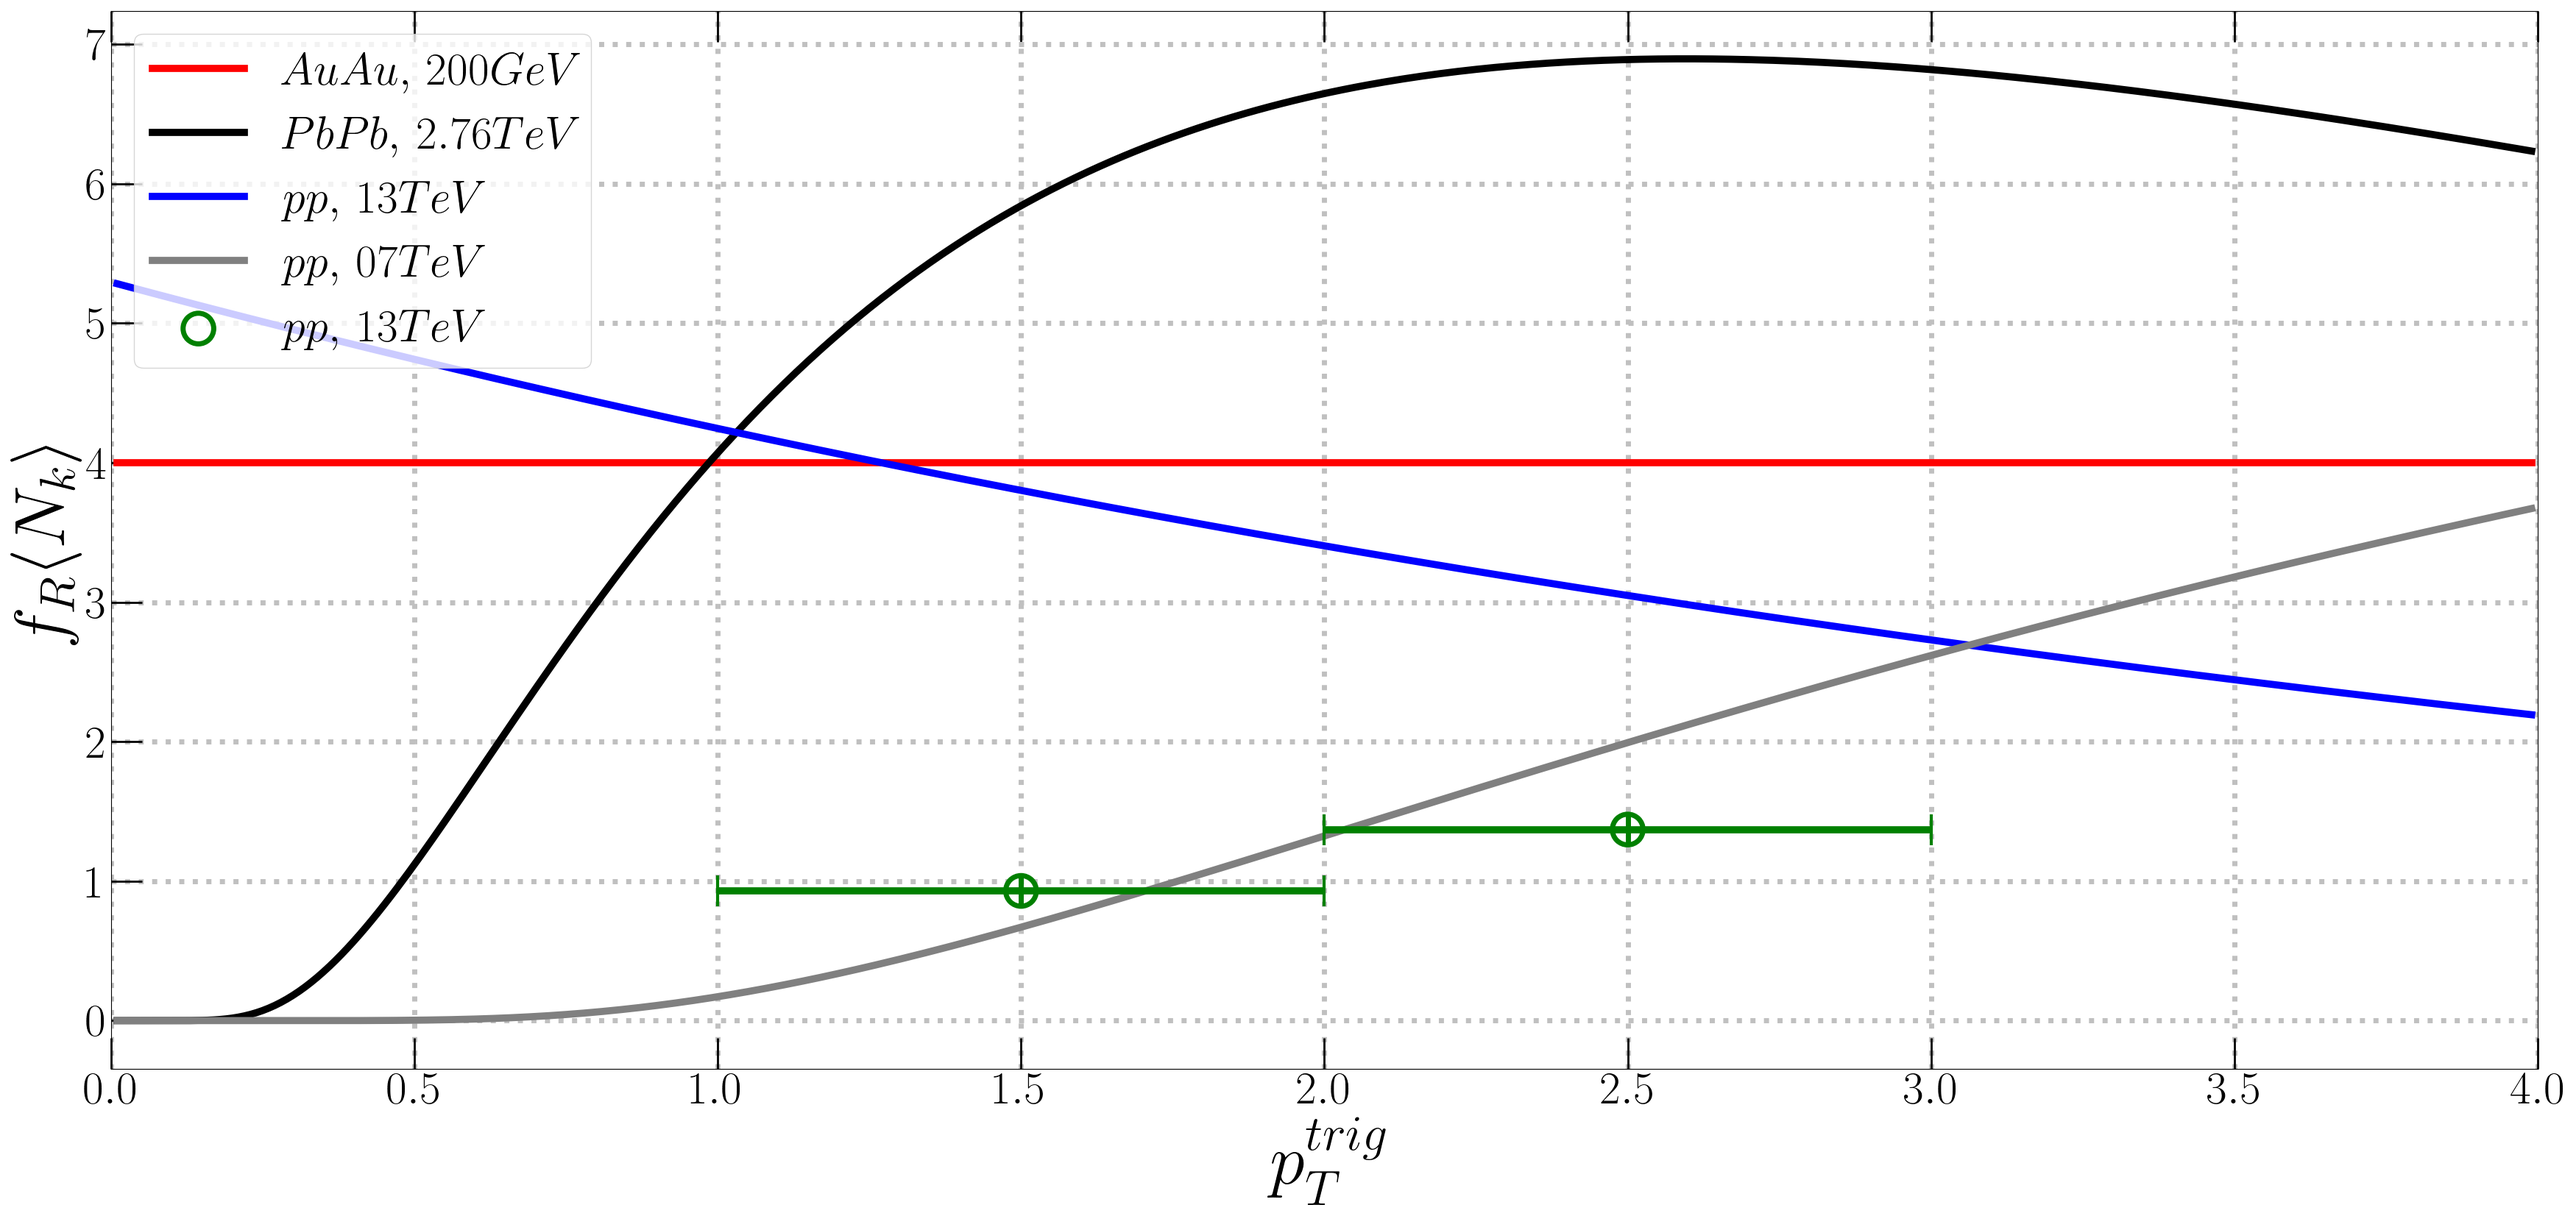
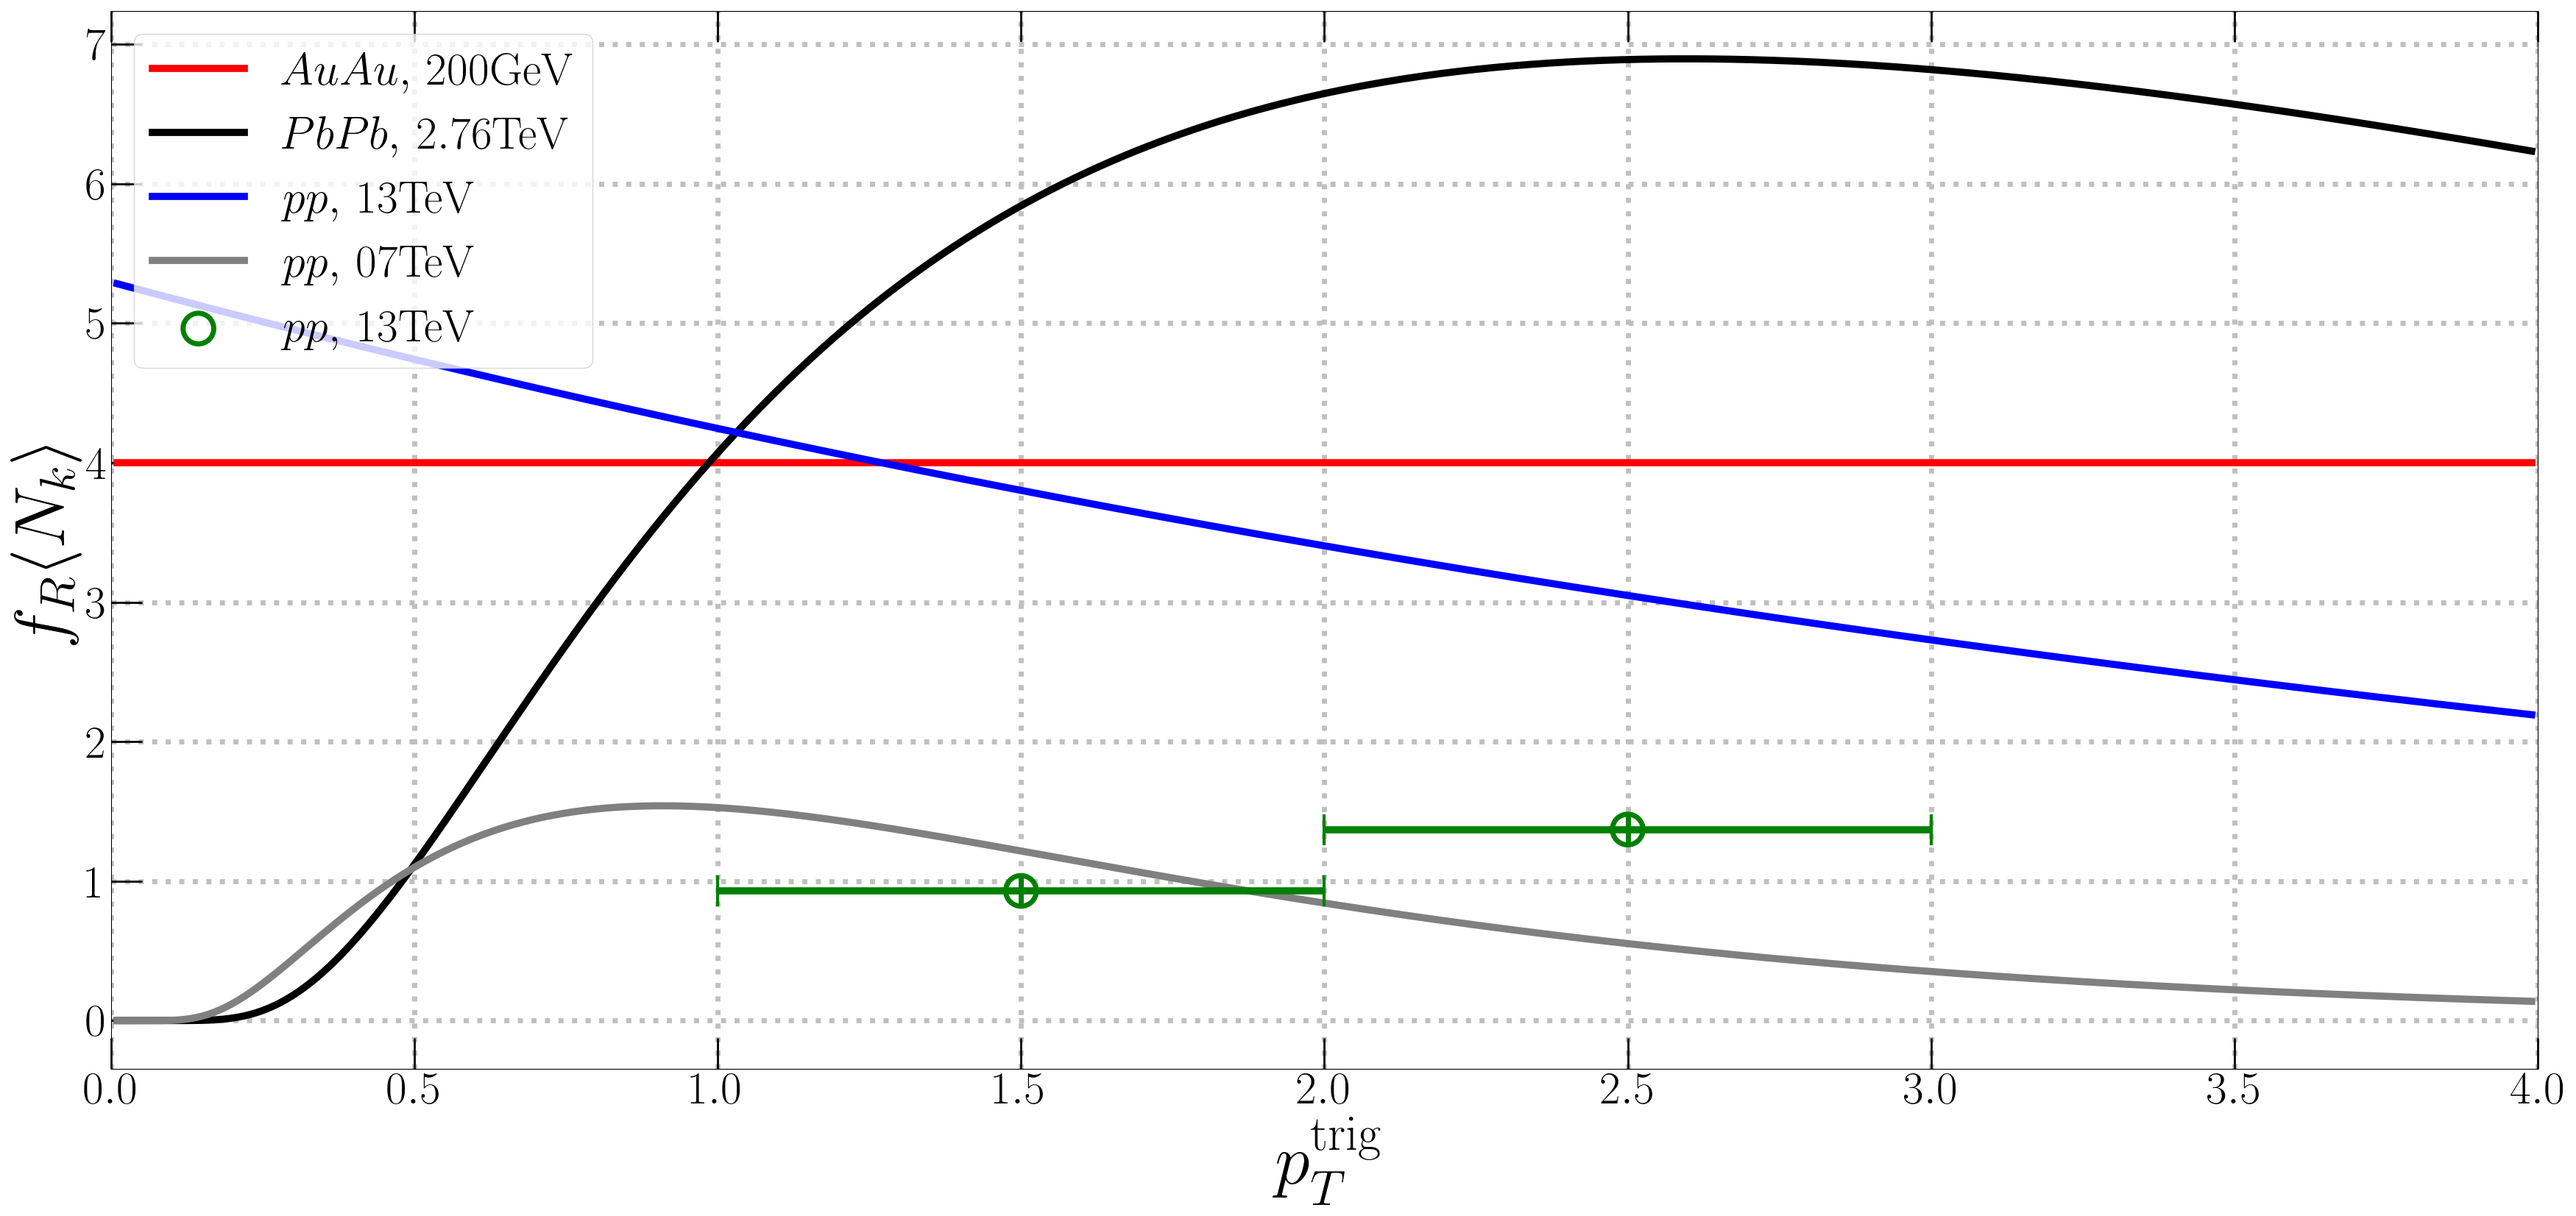
Apply paper czyam
논문(Hep Data)에 있는 czyam을 이용하려고 했으나(CMS에서), 근데 ALICE의 czyam을 모르기 때문에 방법을 통일하기 위해서 이를 이용할 수 없다. -> 준이님에게 물어볼 필요도 있어 보임.

diff --git a/main_class.py b/main_class.py
@@ -27,6 +27,7 @@ phi_07TeV_ptdep = []
 dat_07TeV_ptdep = []
 err_07TeV_ptdep = []
 fitting_error = []
+# delta_phi_zyam = []
 for i in range(5):
     start = 10*i + 90
     end = 10*i + 100
@@ -90,6 +91,8 @@ for i in range(3):
 phi_13TeV_ptdep.append(np.loadtxt(path[0]+'/13TeV_90~.csv',delimiter=',',usecols=[0],skiprows=3,max_rows=12))
 dat_13TeV_ptdep.append(np.loadtxt(path[0]+'/13TeV_90~.csv',delimiter=',',usecols=[1],skiprows=3,max_rows=12))
 
+''' table에 있는 delta phi_CZYAM값을 직접 이용하여 fitting하기 위함 '''
+''' ALICE의 CZYAM을 알 수 없기 때문에 이를 통일하기 위해서 table의 delta phi_CZYAM를 이용하기 힘들어 보임. '''
 for i in range(len(dat_13TeV_ptdep)):
     dat_13TeV_ptdep[i] -= min(dat_13TeV_ptdep[i])
 
@@ -160,7 +163,7 @@ boundary = ((0.2, 0.1, 0, 0, 0),(5, 3., 20, 10, 10))
 # initial = (0.82, 0.57, .36, .6)
 # initial = (0.72, 0.3, 0.18, 1.6, 0.5)
 # initial = (1.11919, 0.98740754, 1.7766, .1051285459, 0.0)
-initial = (1., 0.2, 2, 3, 0)
+initial = (1., 0.7, 2, 3, 0)
 # initial = (1.08674554e+00, 1.16530031e+00, 1.74236505e+00, 7.99187696e-09, 3.67480403e-18)
 
 '''입력 데이터를 변경할 때에 꼭 제대로 들어가는지 확인하자'''
@@ -198,6 +201,7 @@ del dat_13TeV_ptdep_fitting[7]                        # delete ATLAS data
 del phi_13TeV_ptdep_fitting[3]                        # delete 0.1<pT<1 phi
 del dat_13TeV_ptdep_fitting[3]                        # delete 0.1<pT<1 data
 
+print(dat_13TeV_ptdep_fitting)
 # '''Fitting 13TeV data'''
 # ptdep = classes.Fitting_gpu(13000, phi_13TeV_ptdep_fitting, dat_13TeV_ptdep_fitting, (ptloww, pthigh), None, ptf, etaf, boundary, initial, "pTdependence")
 # # ptdep_result, ptdep_error = ptdep.fitting(fitting_error)         # error를 대입하려는 경우(absolute sigma)
@@ -207,18 +211,19 @@ del dat_13TeV_ptdep_fitting[3]                        # delete 0.1<pT<1 data
 # print(ptdep_result)
 # print(ptdep_error)
 
-# '''Fitting 7TeV data'''
-# ptf_07 = [(1, 2), (2, 3), (3, 4)]
+'''Fitting 7TeV data'''
+ptf_07 = [(1, 2), (2, 3), (3, 4)]
 # etaf_07 = [(2, 4.8), (2, 4.8), (2, 4.8)]
-# phi_07TeV_ptdep_fitting = phi_07TeV_ptdep[1::]
-# dat_07TeV_ptdep_fitting = dat_07TeV_ptdep[1::]
-# ptdep = classes.Fitting_gpu(7000, phi_07TeV_ptdep_fitting, dat_07TeV_ptdep_fitting, (ptloww_07, pthigh_07), None, ptf_07, etaf, boundary, initial, "pTdependence")
-# # ptdep_result, ptdep_error = ptdep.fitting(fitting_error)         # error를 대입하려는 경우(absolute sigma)
-# ptdep_result_07, ptdep_error_07 = ptdep.fitting(None)                  # error를 고려하지 않으려는 경우
-# # ptdep_result = [0.68893858, 0.58398214, 0.39126606, 1.31503716]
+etaf_07 = [(2, 4), (2, 4), (2, 4)]
+phi_07TeV_ptdep_fitting = phi_07TeV_ptdep[1::]
+dat_07TeV_ptdep_fitting = dat_07TeV_ptdep[1::]
+ptdep = classes.Fitting_gpu(7000, phi_07TeV_ptdep_fitting, dat_07TeV_ptdep_fitting, (ptloww_07, pthigh_07), None, ptf_07, etaf, boundary, initial, "pTdependence")
+# ptdep_result, ptdep_error = ptdep.fitting(fitting_error)         # error를 대입하려는 경우(absolute sigma)
+ptdep_result_07, ptdep_error_07 = ptdep.fitting(None)                  # error를 고려하지 않으려는 경우
+# ptdep_result = [0.68893858, 0.58398214, 0.39126606, 1.31503716]
 
-# print(ptdep_result_07)
-# print(ptdep_error_07)
+print(ptdep_result_07)
+print(ptdep_error_07)
 
 '''
 FrNk의 크기(xx)에 따라 fitting이 전혀 다르게 되는 것 같은 느낌이 듦. 이 아래는 이를 체크해보기 위함.
@@ -282,7 +287,7 @@ dat_13TeV_ptdep = dat_13TeV_ptdep[0:-2]
 # ptdep_result = [1.08674554, 1.16530031, 1.74236505, 7.99187696e-09, 3.67480403e-18]
 # ptdep_result = [1.16705241, 3.00000000, 11.2761222, 9.72160460e-14, 0.492948044]
 ptdep_result = [9.77048585e-01, 1.79374925e+00, 5.29529630e+00, 8.52747999e-35, 2.20904141e-01]
-ptdep_result_07 = [1.00266407e+00, 4.83737711e-01, 1.02320562e+01, 4.08927964e+00, 9.12644624e-10]
+# ptdep_result_07 = [1.00266407e+00, 4.83737711e-01, 1.02320562e+01, 4.08927964e+00, 9.12644624e-10]
 
 fig1, axes1 = plt.subplots(nrows=1, ncols=5,figsize=(125,20))
 #그래프 그리기
@@ -418,15 +423,15 @@ Hanul_FrNk = [[1.5, 2.5], [0.93, 1.37]]
 Hanul_FrNk_error = [[0.5, 0.5], [0.5, 0.5]]
 ptf = np.arange(0.01,4,0.01)
 
-plt.plot(ptf, FrNk_func(ptf, *AuAu_200GeV), color = 'red', linewidth=7, label=r'$AuAu, \, 200GeV$')
-plt.plot(ptf, FrNk_func(ptf, *PbPb_276TeV), color = 'black', linewidth=7, label=r'$PbPb, \, 2.76TeV$')
-plt.plot(ptf, FrNk_func(ptf, *pp_13TeV), color = 'blue', linewidth=7, label=r'$pp, \, 13TeV$')
-plt.plot(ptf, FrNk_func(ptf, *pp_07TeV), color = 'grey', linewidth=7, label=r'$pp, \, 07TeV$')
-plt.scatter(Hanul_FrNk[0], Hanul_FrNk[1], edgecolor = 'green', facecolors='none', s=900, marker='o', linewidths=5, zorder=2, label=r'$pp, \, 13TeV$')
+plt.plot(ptf, FrNk_func(ptf, *AuAu_200GeV), color = 'red', linewidth=7, label=r'$AuAu, \, 200\mathrm{GeV}$')
+plt.plot(ptf, FrNk_func(ptf, *PbPb_276TeV), color = 'black', linewidth=7, label=r'$PbPb, \, 2.76\mathrm{TeV}$')
+plt.plot(ptf, FrNk_func(ptf, *pp_13TeV), color = 'blue', linewidth=7, label=r'$pp, \, 13\mathrm{TeV}$')
+plt.plot(ptf, FrNk_func(ptf, *pp_07TeV), color = 'grey', linewidth=7, label=r'$pp, \, 07\mathrm{TeV}$')
+plt.scatter(Hanul_FrNk[0], Hanul_FrNk[1], edgecolor = 'green', facecolors='none', s=900, marker='o', linewidths=5, zorder=2, label=r'$pp, \, 13\mathrm{TeV}$')
 plt.scatter(Hanul_FrNk[0], Hanul_FrNk[1], facecolors='green', s=900, marker='+', linewidths=5, zorder=2)
 plt.errorbar(Hanul_FrNk[0], Hanul_FrNk[1], xerr=Hanul_FrNk_error, color="green", linestyle=' ', linewidth=7, capthick=3, capsize=15)
 
-plt.xlabel(r'$p_T^{trig}$',size=70)
+plt.xlabel(r'$p_T^{\mathrm{trig}}$',size=70)
 plt.ylabel(r'$f_{R} \langle N_k \rangle $',size=70)
 plt.xlim(0,4)
 
